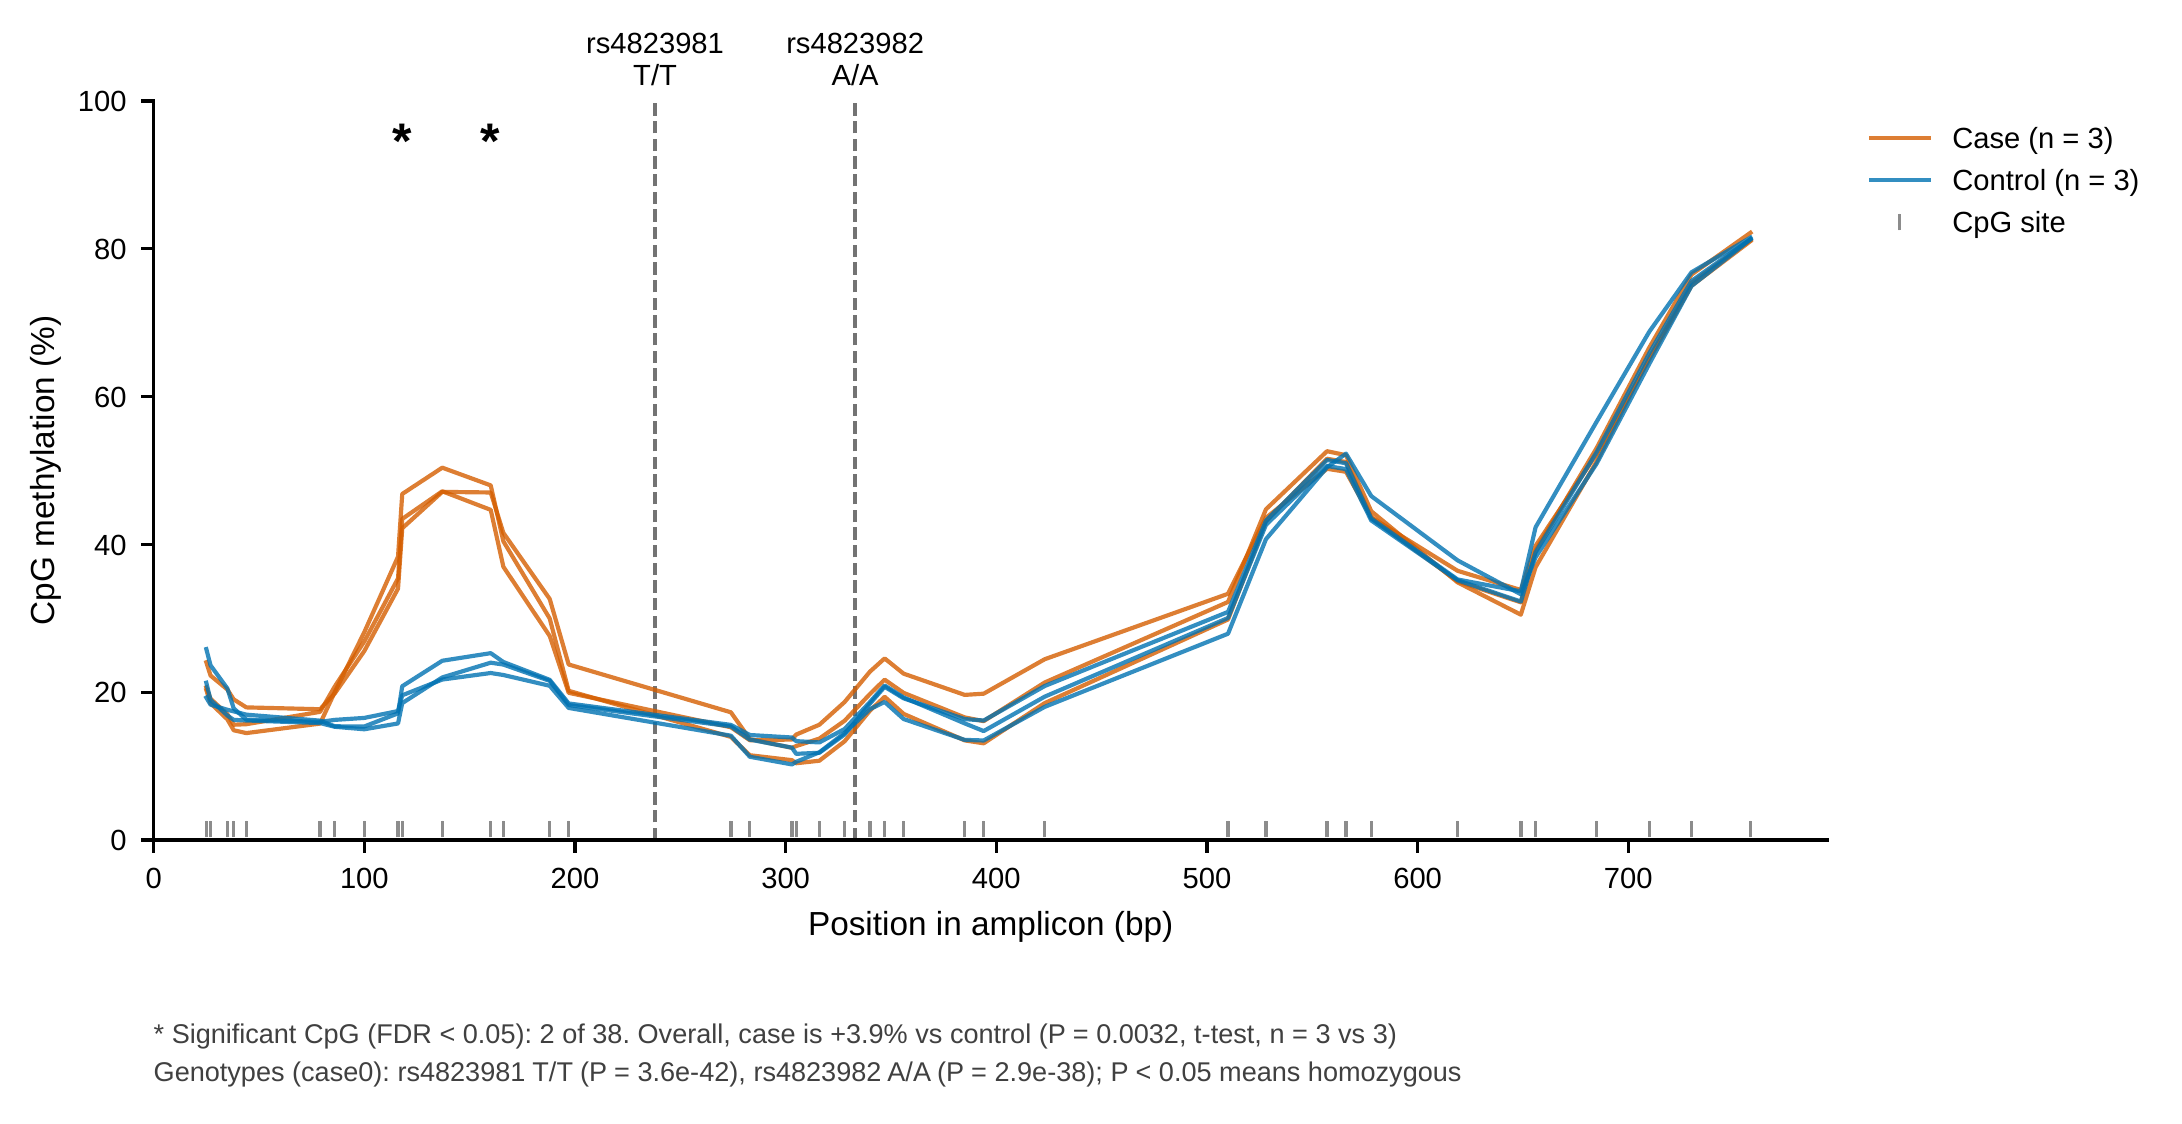
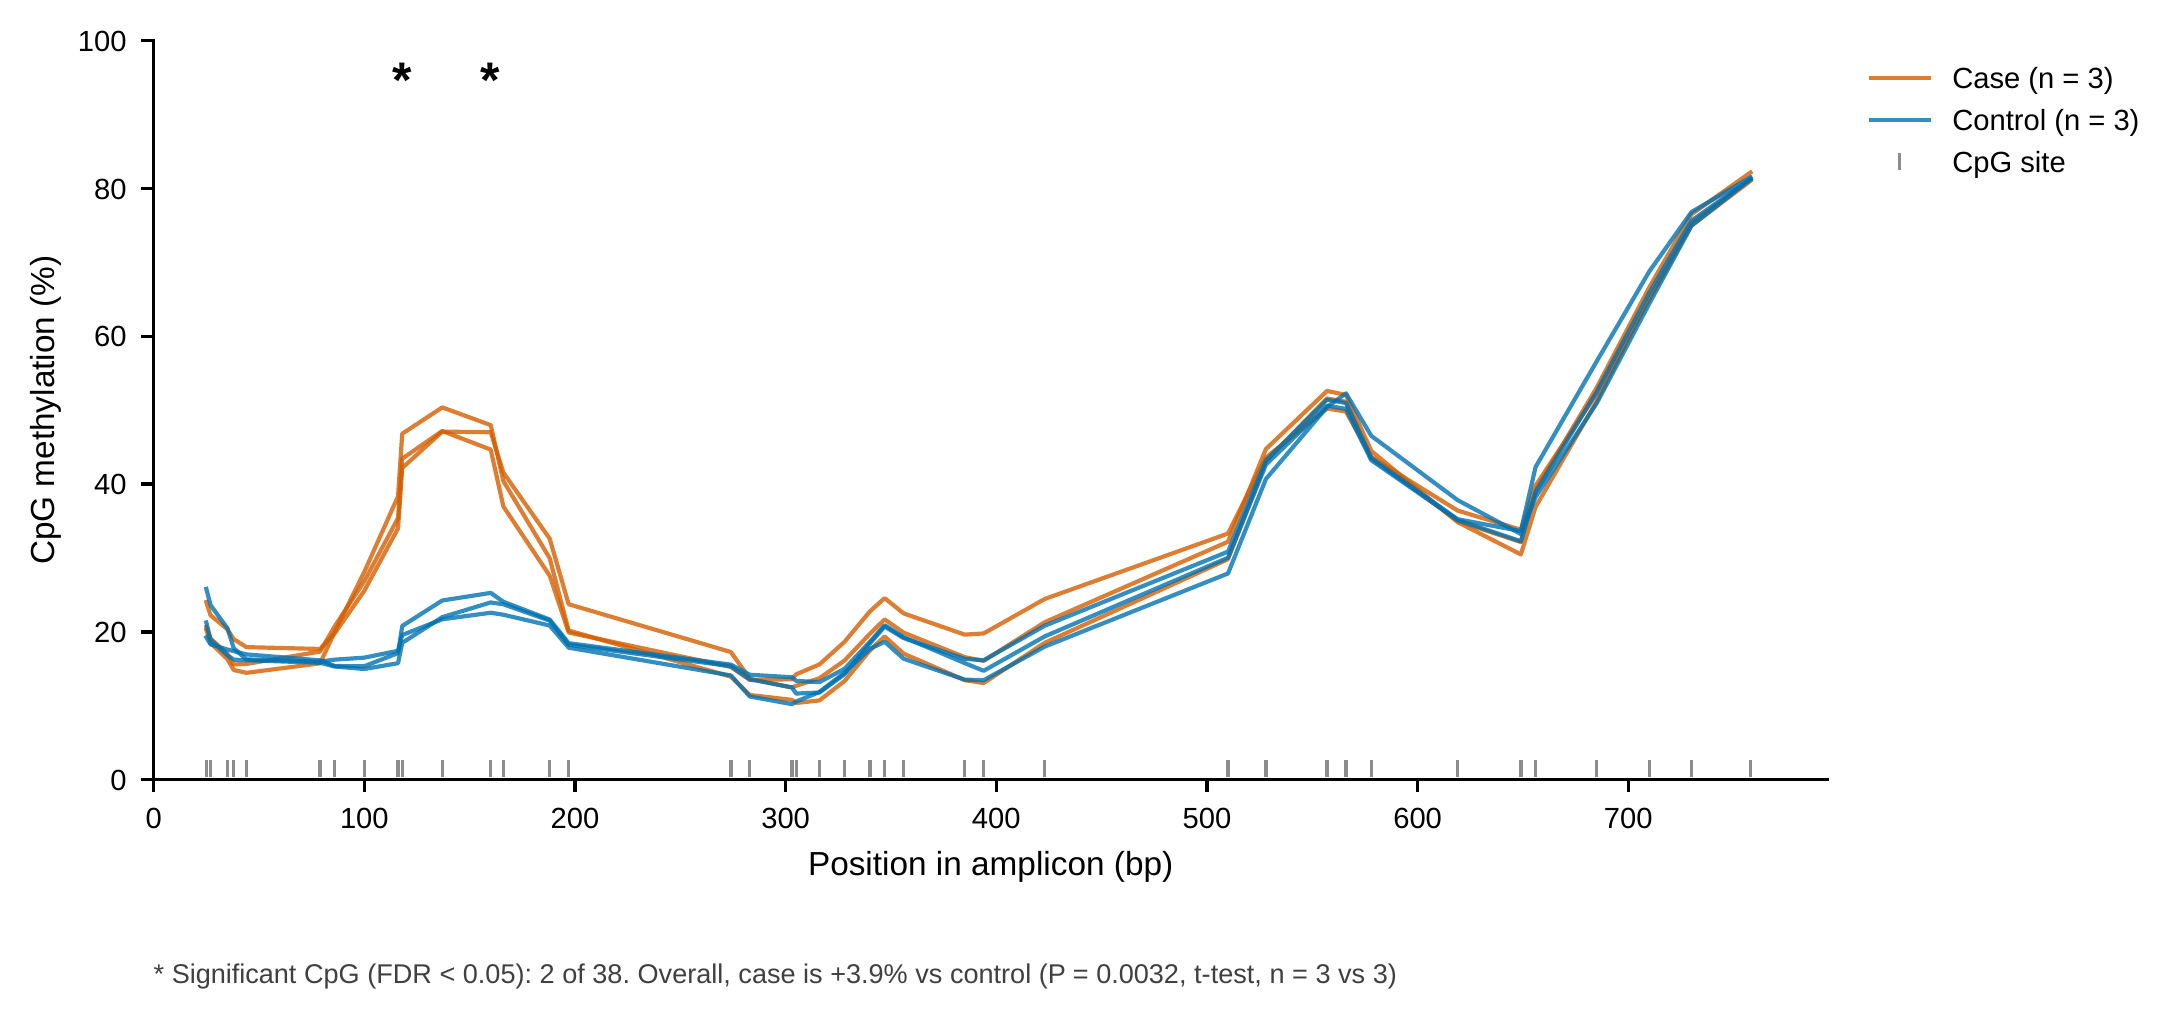
testing

diff --git a/README.md b/README.md
@@ -135,6 +135,7 @@ results/
 
 Example with 3 case and 3 control samples simulated from `test_sample.fq`, where
 cases were made 30 points more methylated at 5 CpGs near positions 116 to 166.
-Stars mark CpGs with FDR < 0.05, and the box at the bottom left gives the test
-used, the whole amplicon difference with its p value, and the number of
-significant CpGs.
+Each line is one sample. An asterisk (*) marks CpGs with FDR < 0.05, and the
+note under the plot gives the number of significant CpGs and the overall case vs
+control difference with its P value. SNP calling (`-snp`) is left off here
+because genotypes can differ between samples.
